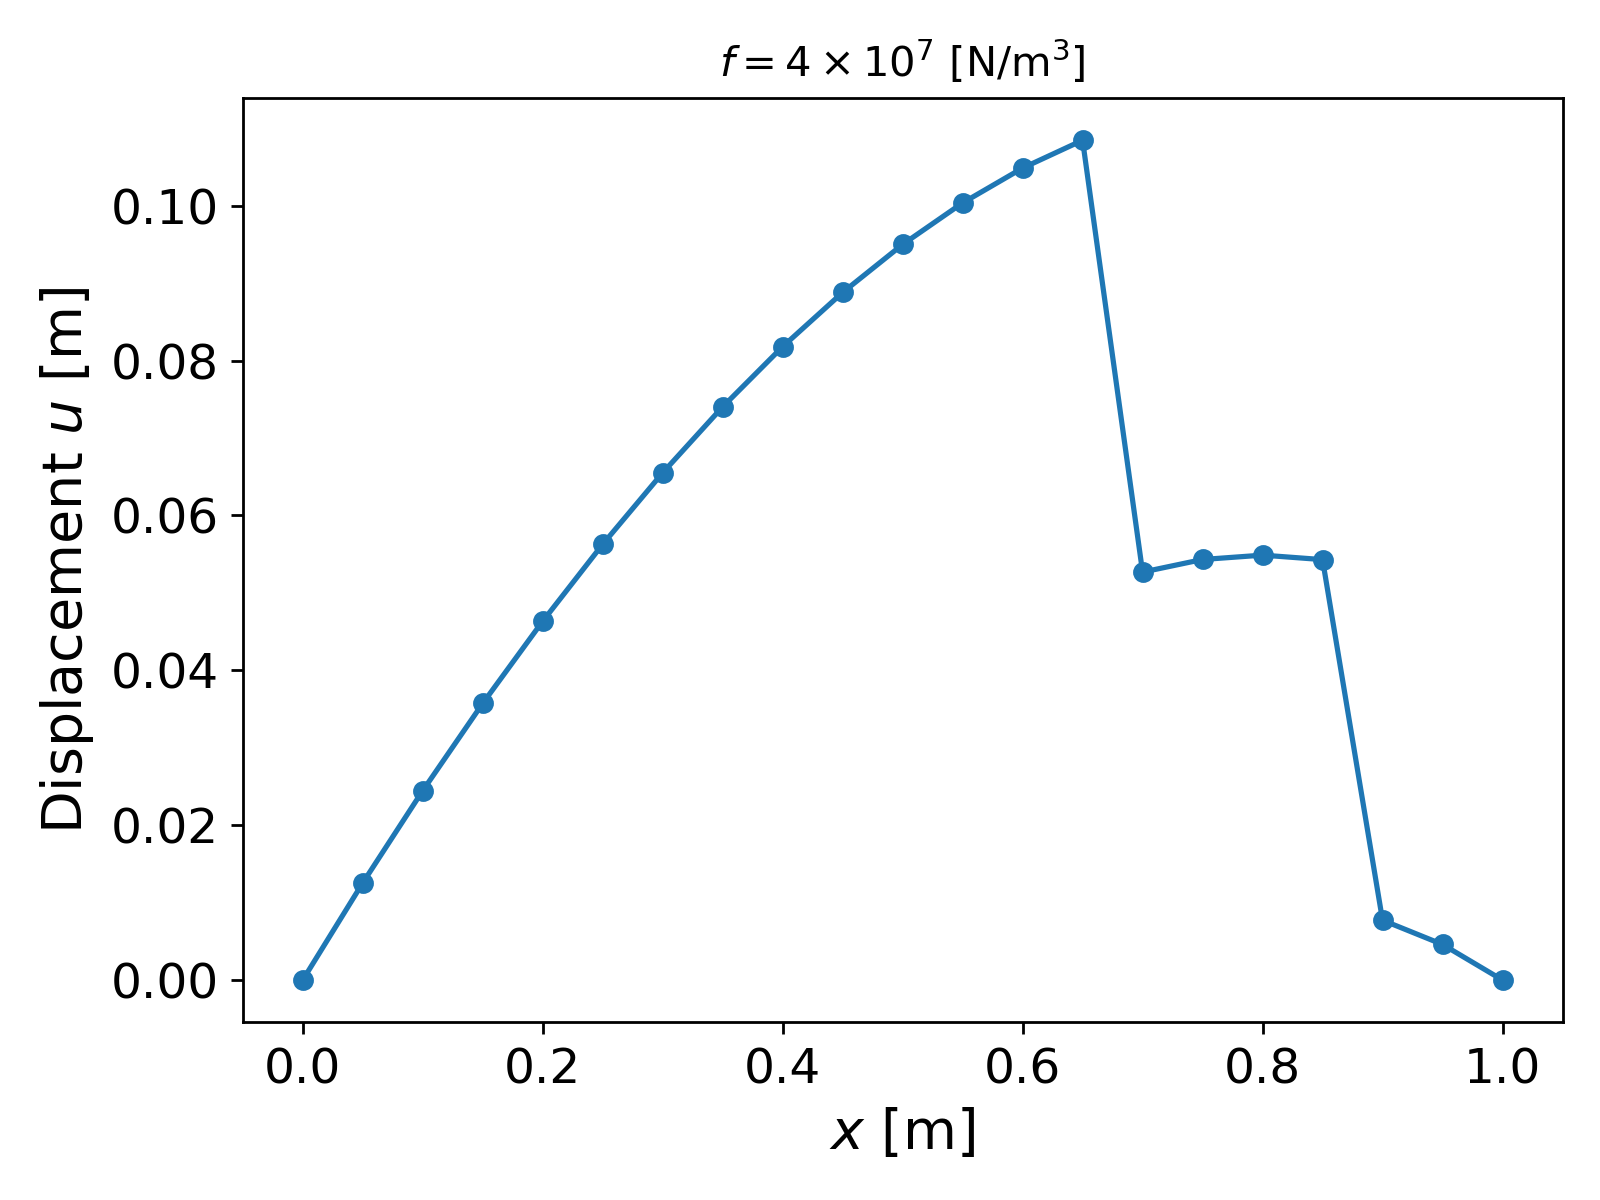
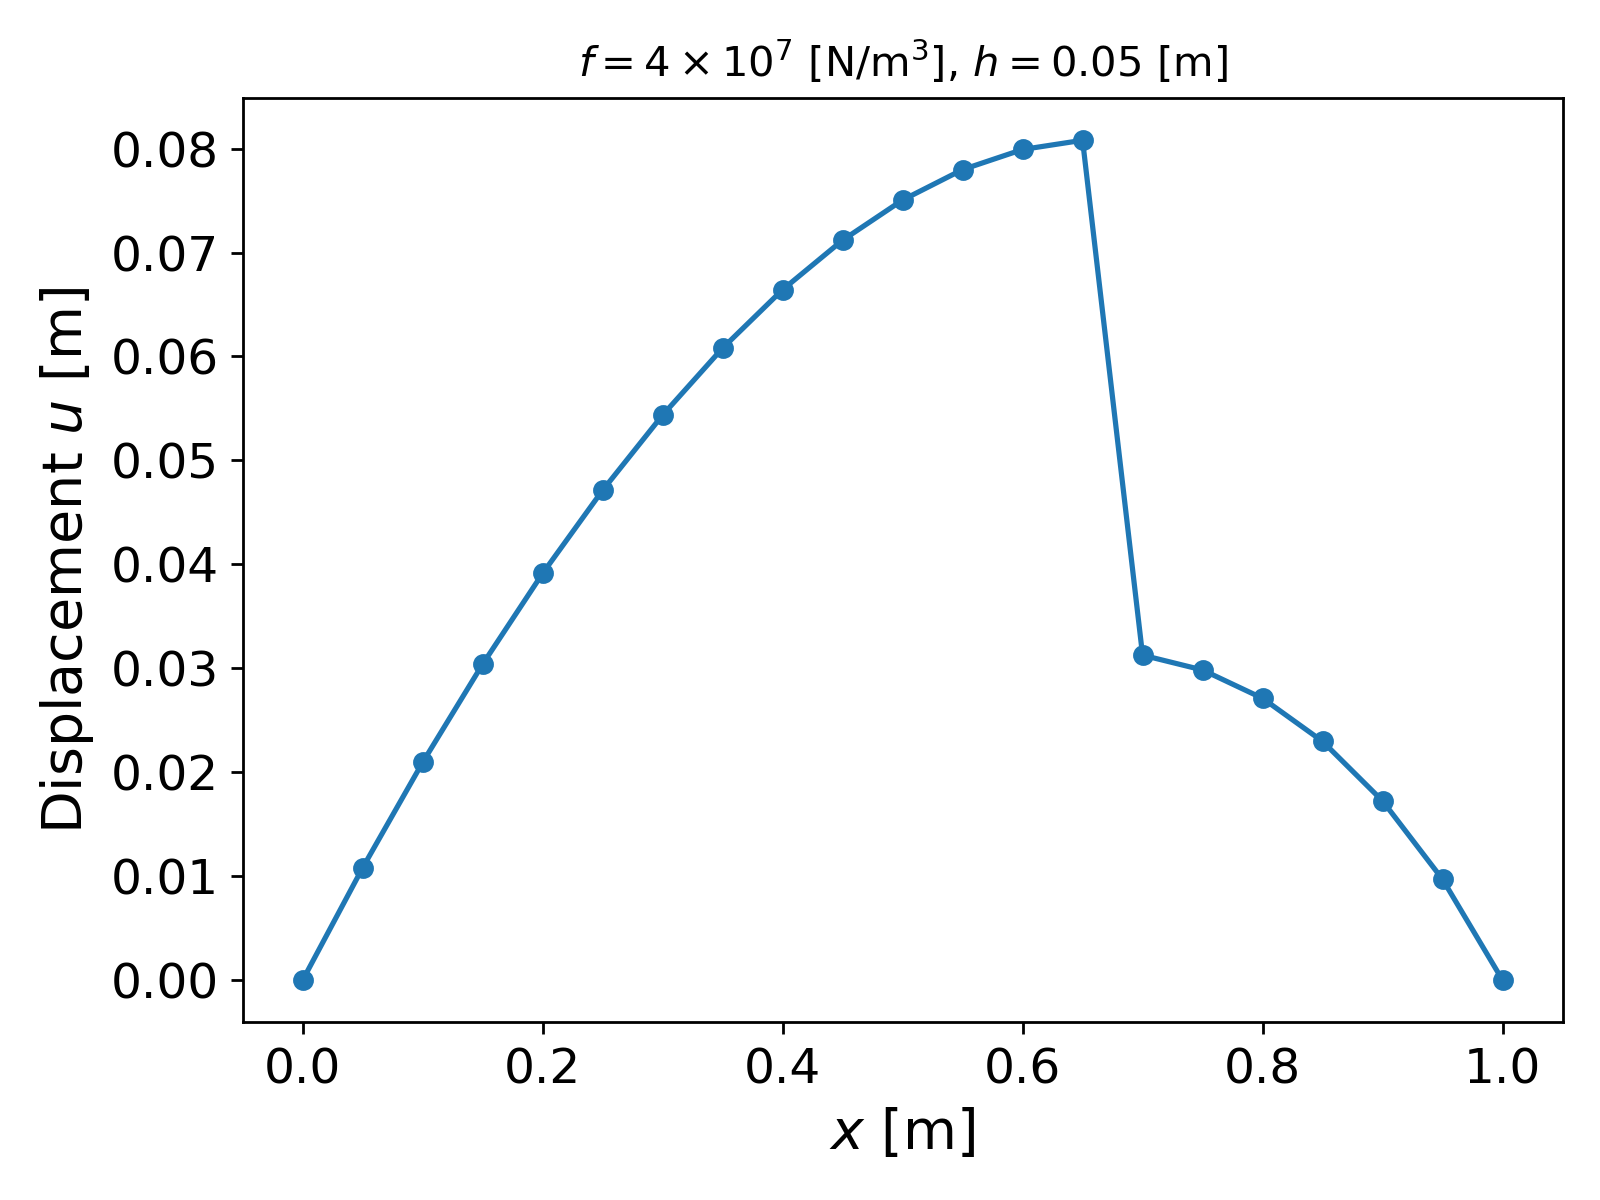
WIP: hyperelasticity

diff --git a/_talks/hyperelasticity1.md b/_talks/hyperelasticity1.md
@@ -208,7 +208,8 @@ On the solver side, Newton's method performs well and converges within $6$ itera
 **Robustness of Newton's Method.** We now investigate the robustness of Newton's method to a different initial guess, which ensures the accuracy of the solver and also helps us implement a dynamic time dependent problem later on. Since the solution is close to a parabolic profile, we choose an initial guess $U^{(0)}(X) = X(1 - X)$. The results are plotted in Fig. 3. 
 
 <div align="center">
-<img src='/images/hyperelasticity1/f_large_M_20_1.png' width='450' height='450'>
+<img src='/images/hyperelasticity1/f_large_M_20_1.png' width='380' height='380'>
+<img src='/images/hyperelasticity1/f_large_M_50_1.png' width='380' height='380'>
 </div>
 
 <div align = "center">
@@ -217,7 +218,7 @@ On the solver side, Newton's method performs well and converges within $6$ itera
 
 <br>
 
-Things now take an interesting turn. The Newton solver converges, but the displacement profile is very different from what we obtained in Fig. 2. Naturally, the first instinct is to refine the grid and see what happens, but to no avail. Fig. 2 also shows the solution profile for a refined grid, which looks...
+Things now take an interesting turn. The Newton solver converges, but the displacement profile is very different from what we obtained in Fig. 2. Naturally, the first instinct is to refine the grid and see what happens, but to no avail. Fig. 2 also shows the solution profile for a refined grid, which does not look promising either. Here also we have convergence of the Newton's method, albeit for around $40$ iterations this time. 
 
 The next step is to make sure that our numerical implementation is correct, and for that reason we also implement the St-Venant Kirchhoff hyperelastic system using FEniCS [^9]. 
 
@@ -291,7 +292,7 @@ $$
   g(\alpha) = \alpha(\alpha + 1)(\alpha + 2) - f,
 $$
 
-*for any given constant $f \in \mathbb{R}$.*
+*for any given constant $f \in \mathbb{R}$. In fact, similar profiles can be construced for the homogeneous Dirichlet boundary conditions as well by finding $\alpha_1, \alpha_2$ which satisfy $\alpha_1 \alpha_2 < 0$ for $f > 0$, $f$ small enough, for instance.*
 
 This helps explain the issue that we faced above, i.e., the Newton's method has performed well, and it just probably converged to a different solution *that was closer to the initial guess*. In fact, if we consider a coarse grid profile of what we have in Fig. 3 as the initial guess, then the solution converges to a similar profile for finer grids as well. 
 
